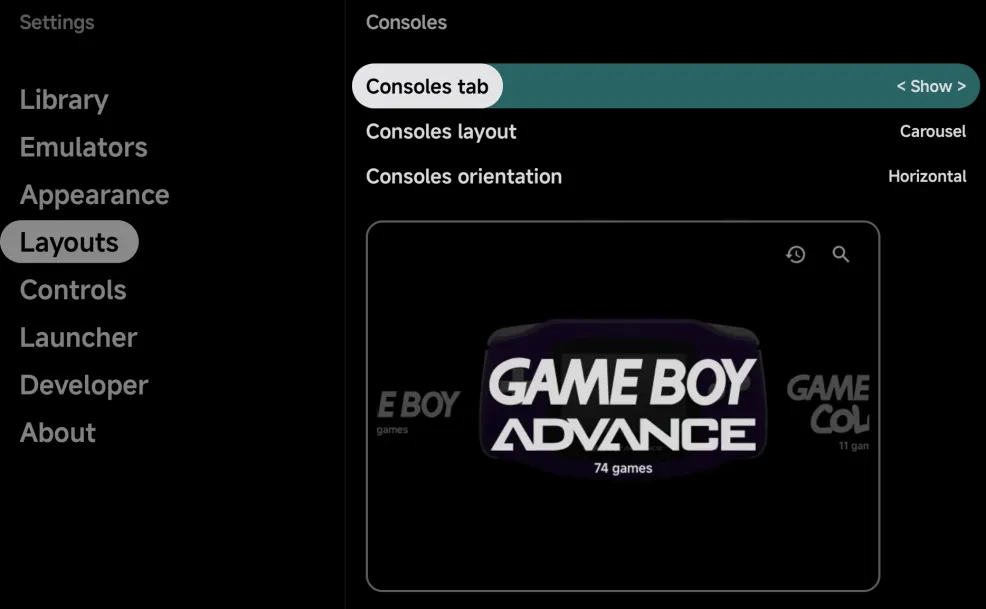
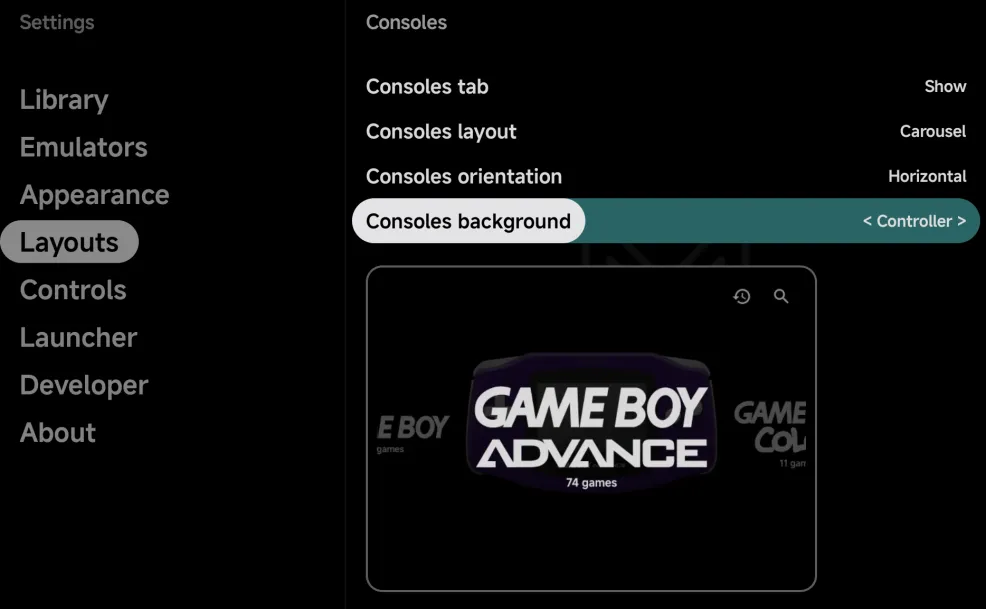
Layouts: retake the Consoles page with the Consoles background row

diff --git a/docs/mobile/layouts.md b/docs/mobile/layouts.md
@@ -67,7 +67,7 @@ achievements; [Extra info](#extra-info) hides those.
 
 ## Consoles
 
-![Layouts → Consoles beside the Settings sections: Consoles tab Show, Consoles layout Carousel, Consoles orientation Horizontal, with a picture of the Carousel below](../assets/screenshots/mobile/settings-layouts-consoles.webp){ .nx-wide }
+![Layouts → Consoles beside the Settings sections: Consoles tab Show, Consoles layout Carousel, Consoles orientation Horizontal, Consoles background Controller, with a picture of the Carousel below](../assets/screenshots/mobile/settings-layouts-consoles.webp){ .nx-wide }
 
 | Row | Values | Default | Shows |
 | --- | --- | --- | --- |
